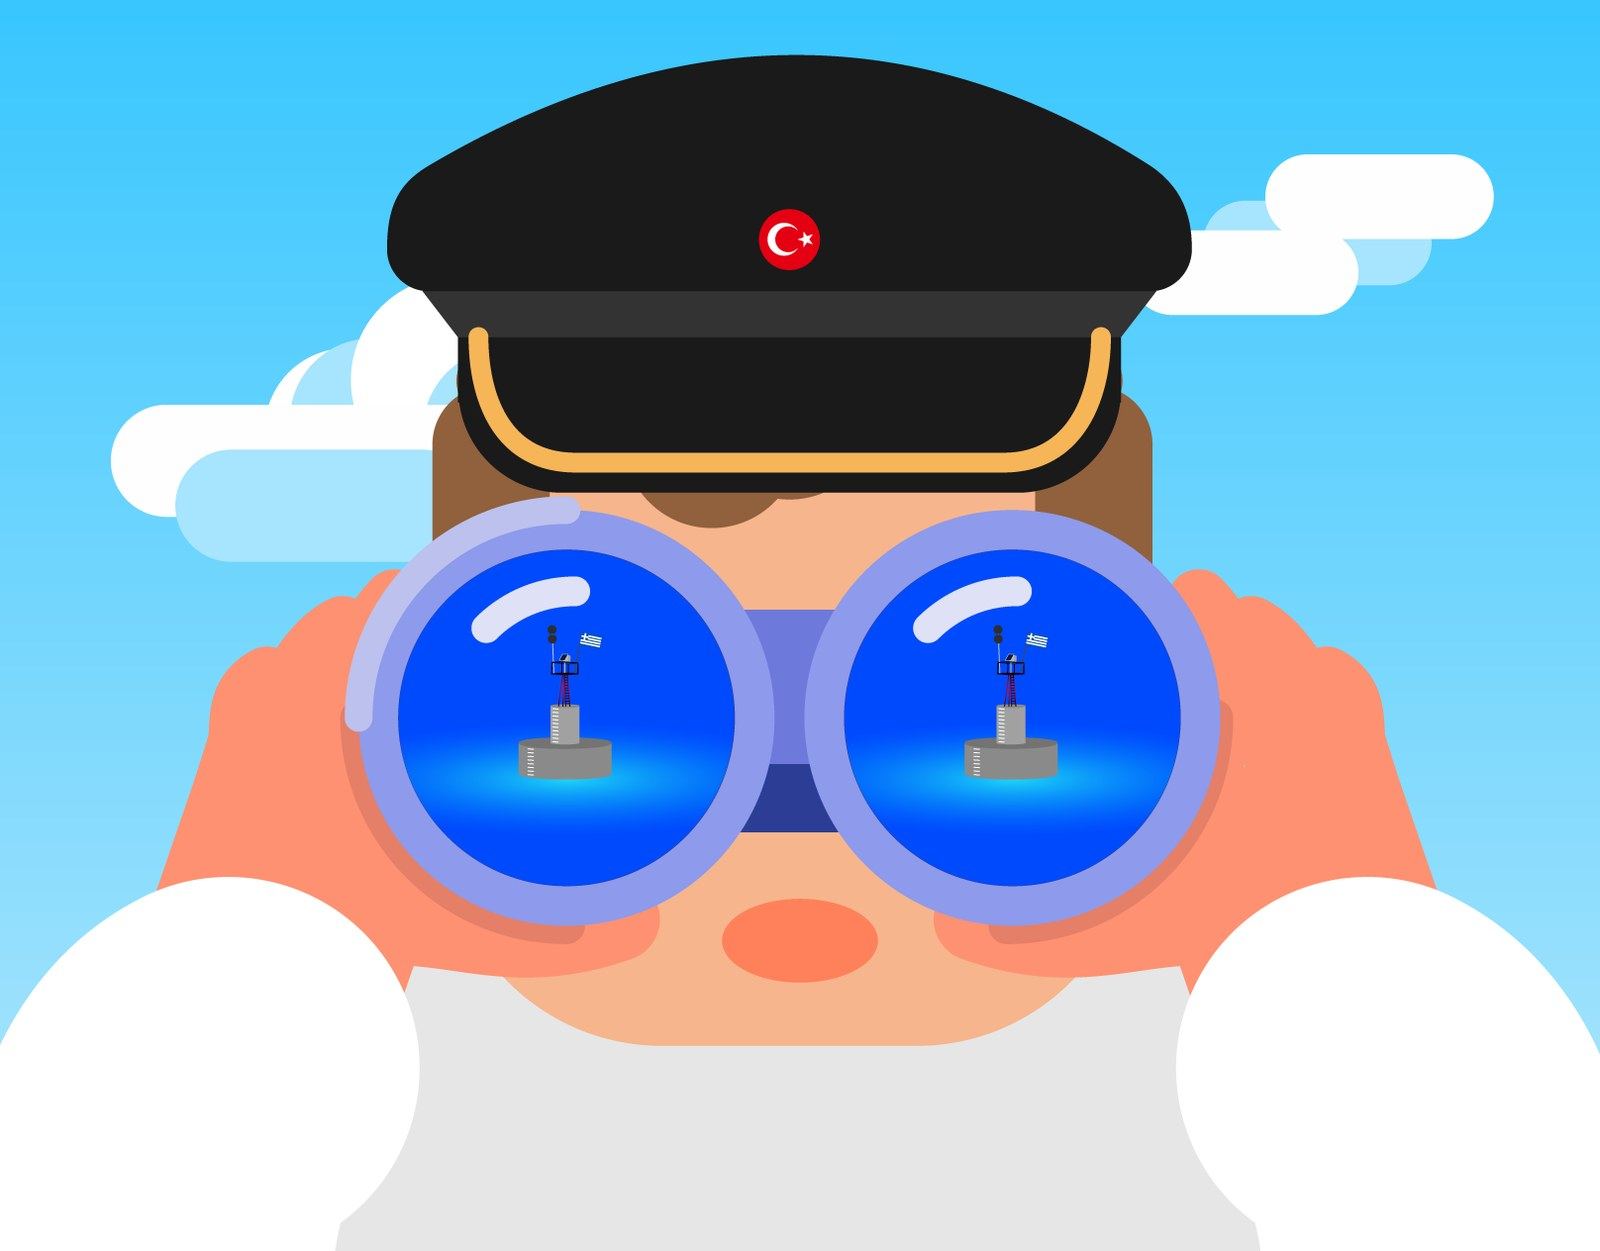
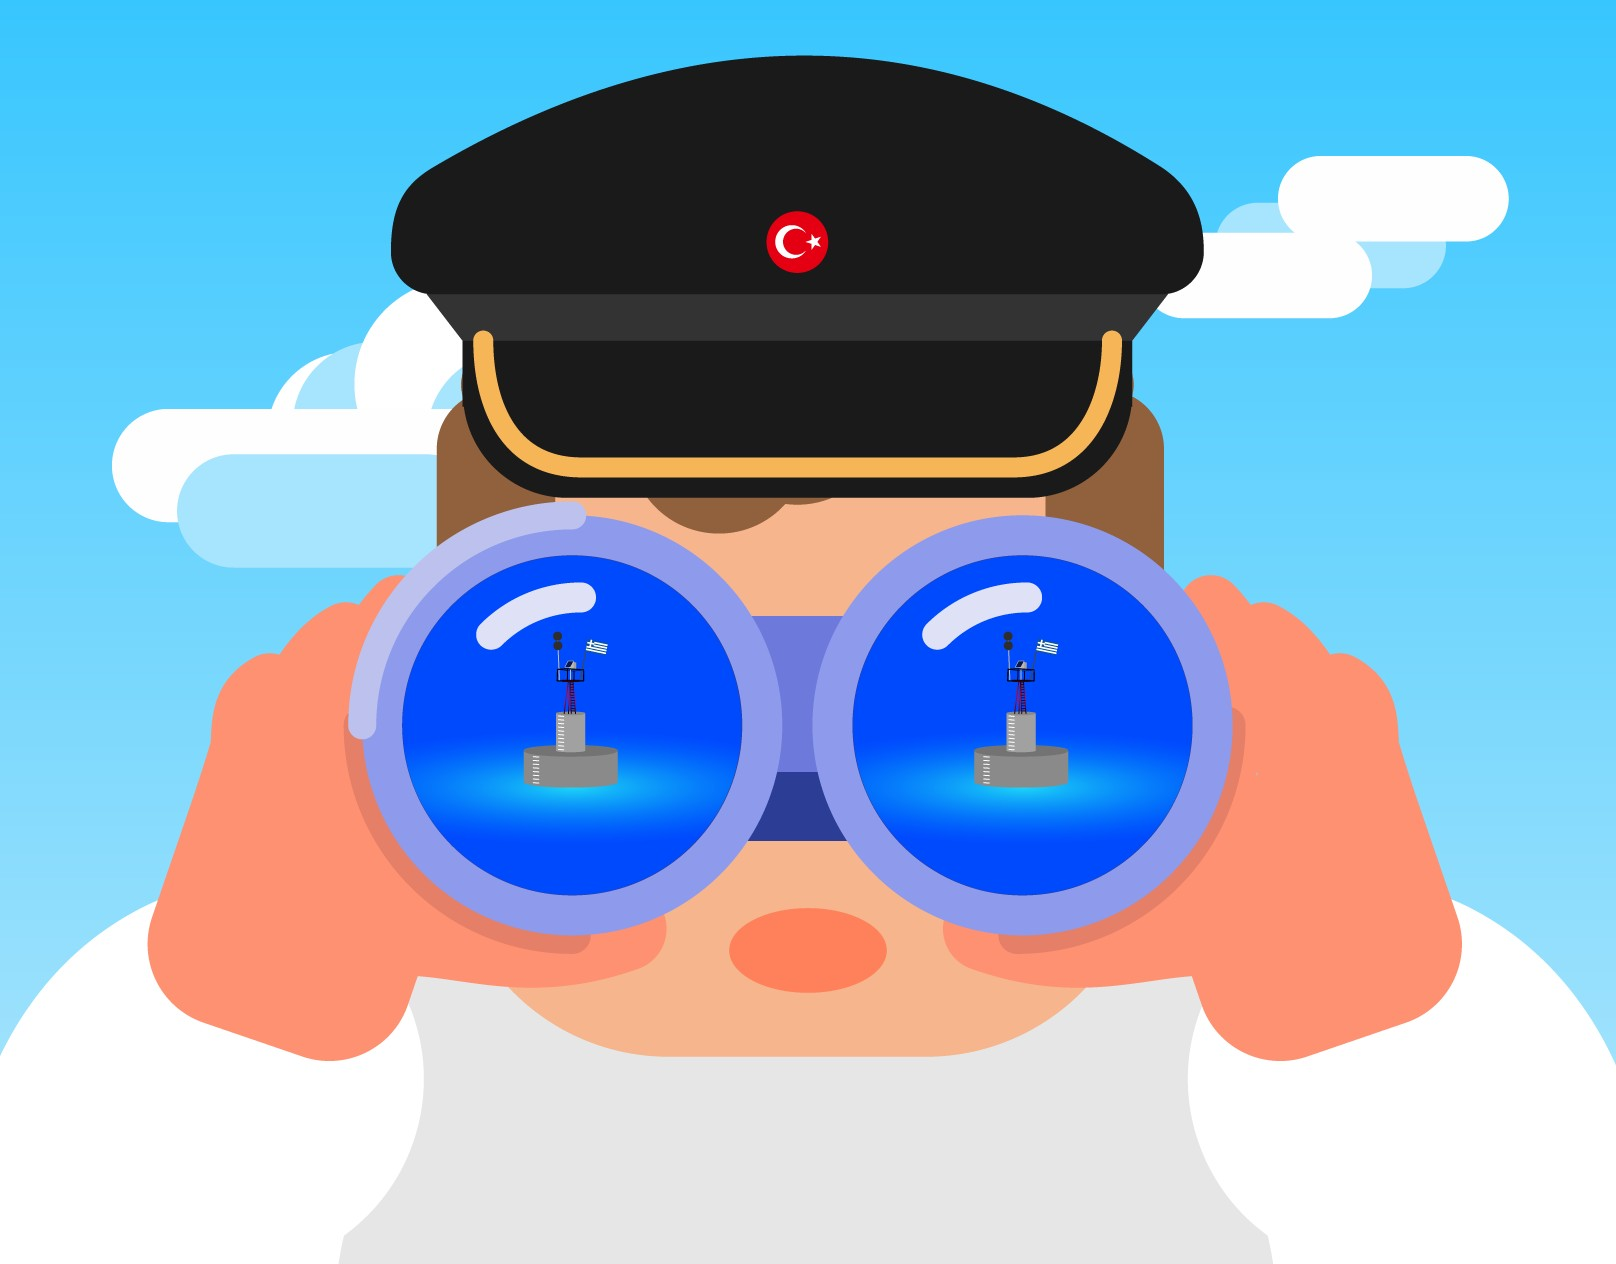
Beyond thumbnail + hero capped at 1440; Life in the Folds white above long photo
Claude-Session: https://claude.ai/code/session_01QNcQbsm2BBv6SQaHPdpieP

Changed region(s): [[0.7188, 0.6859, 0.9062, 0.8417], [0.0938, 0.6859, 0.25, 0.8417]]

diff --git a/projects.js b/projects.js
@@ -6,7 +6,7 @@
 window.PROJECTS = [
   { slug: "kokkinou",       title: "Kokkinou | Interior designer brand identity",    image: "images/kokkinou.jpg",         bg: "#e6dfd6", x: 2109, y: 600, w: 500, h: 500, cap: "Kokkinou\ninterior design studio", cats: "brand identity\nbrand voice" },
   { slug: "anima",          title: "anima | Artist’s cryptocurrency brand identity", image: "images/anima.jpg",       bg: "#e8dca0", x: 1328, y: 1619, w: 500, h: 281, cap: "Anima\nartist’s crypto brand", cats: "brand identity\nmotion graphics\nUI/UX" },
-  { slug: "beyond-podcast", title: "Beyond Podcast | Explainer videos showreel",    image: "images/beyond-podcast.jpg", bg: "#e2d6d6", x: 2379, y: 2001, w: 500, h: 391, cap: "Beyond podcast\nexplainer videos", cats: "motion graphics\n2D animation" },
+  { slug: "beyond-podcast", title: "Beyond Podcast | Explainer videos showreel",    image: "images/beyond-podcast.jpg", bg: "#38c6fe", x: 2379, y: 2001, w: 500, h: 391, cap: "Beyond podcast\nexplainer videos", cats: "motion graphics\n2D animation" },
   { slug: "parthenogenesis",title: "parthenogenesis | Packaging concept",           image: "images/parthenogenesis.jpg",bg: "#d6e2db", x: 1619, y: 2173, w: 400, h: 400, cap: "Parthenogenesis\nfilm DVD sleeves", cats: "packaging\nillustration" },
   { slug: "trinity",        title: "TRINITY | Emergency infographics",              image: "images/trinity.jpg",        bg: "#e6e2d0", x: 1454, y: 931, w: 400, h: 400, cap: "Trinity\nemergency infographics", cats: "illustration\ntypography" },
   { slug: "paroles",        title: "PAROLES | French teacher visual identity",      image: "images/paroles.jpg",        bg: "#FDEFE8", x: 2059, y: 1398, w: 500, h: 391, cap: "Paroles\nFrench teacher identity", cats: "brand identity\nbrand voice" },

diff --git a/life-in-the-folds.html b/life-in-the-folds.html
@@ -1,5 +1,5 @@
 <!doctype html>
-<html lang="en" class="dark">
+<html lang="en" class="dark whitetop">
 <head>
 <meta charset="utf-8">
 <meta name="viewport" content="width=device-width, initial-scale=1">
@@ -33,7 +33,7 @@
 
   <section class="blocks grid" style="grid-column: 1 / -1">
     <div class="ph video" style="grid-column: 1 / span 12; grid-row: 1; aspect-ratio: 1065 / 599"><video src="images/life-in-the-folds.mp4" poster="images/life-in-the-folds-poster.jpg" autoplay muted loop playsinline preload="metadata"></video></div>
-    <div class="fullimg" style="grid-column: 1 / -1; grid-row: 2"><img src="images/life-in-the-folds-long.jpg" width="2000" height="12964" alt="Life in the Folds" loading="lazy"></div>
+    <div class="fullimg darkfrom" style="grid-column: 1 / -1; grid-row: 2"><img src="images/life-in-the-folds-long.jpg" width="2000" height="12964" alt="Life in the Folds" loading="lazy"></div>
     <div class="fullimg" style="grid-column: 1 / -1; grid-row: 3"><img src="images/life-in-the-folds-scan-1.jpg" width="1440" height="761" alt="Life in the Folds, scanned spread 1" loading="lazy"></div>
     <div class="fullimg" style="grid-column: 1 / -1; grid-row: 4"><img src="images/life-in-the-folds-scan-2.jpg" width="1440" height="761" alt="Life in the Folds, scanned spread 2" loading="lazy"></div>
     <div class="fullimg" style="grid-column: 1 / -1; grid-row: 5"><img src="images/life-in-the-folds-scan-3.jpg" width="1440" height="761" alt="Life in the Folds, scanned spread 3" loading="lazy"></div>

diff --git a/style.css b/style.css
@@ -216,3 +216,8 @@ html.tinted .project .long, html.tinted .project .sq4 img { background: var(--pa
 .project .long .q { font-size: min(55px, 3.8194vw); }
 @supports (font-size: 1cqw) { .project .long .q { font-size: calc(4.1667cqw - 2px); } }
 @media (min-width: 1440px) { @supports (font-size: 1cqw) { .project .long .q { font-size: calc(4.1667cqw - 5px); } } }
+
+html.whitetop, html.whitetop body { background: #fff; }
+html.whitetop .project .hero { background: #fff; }
+.project .fullimg.darkfrom { box-shadow: 0 0 0 6000px #000; clip-path: inset(0 -6000px -6000px -6000px); }
+html.whitetop .project .fullimg:not(.darkfrom), html.whitetop .project .pn, html.whitetop .foot { position: relative; z-index: 1; }

diff --git a/beyond-podcast.html b/beyond-podcast.html
@@ -18,7 +18,7 @@
 </header>
 
 <main class="grid">
-  <div class="hero wide bleed" id="hero" style="--tile-bg: #e2d6d6">
+  <div class="hero wide" id="hero" style="--tile-bg: #38c6fe">
     <img src="images/beyond-podcast-hero.jpg" alt="Beyond Podcast | Explainer videos showreel" onerror="this.parentNode.classList.add('missing')">
   </div>
 
